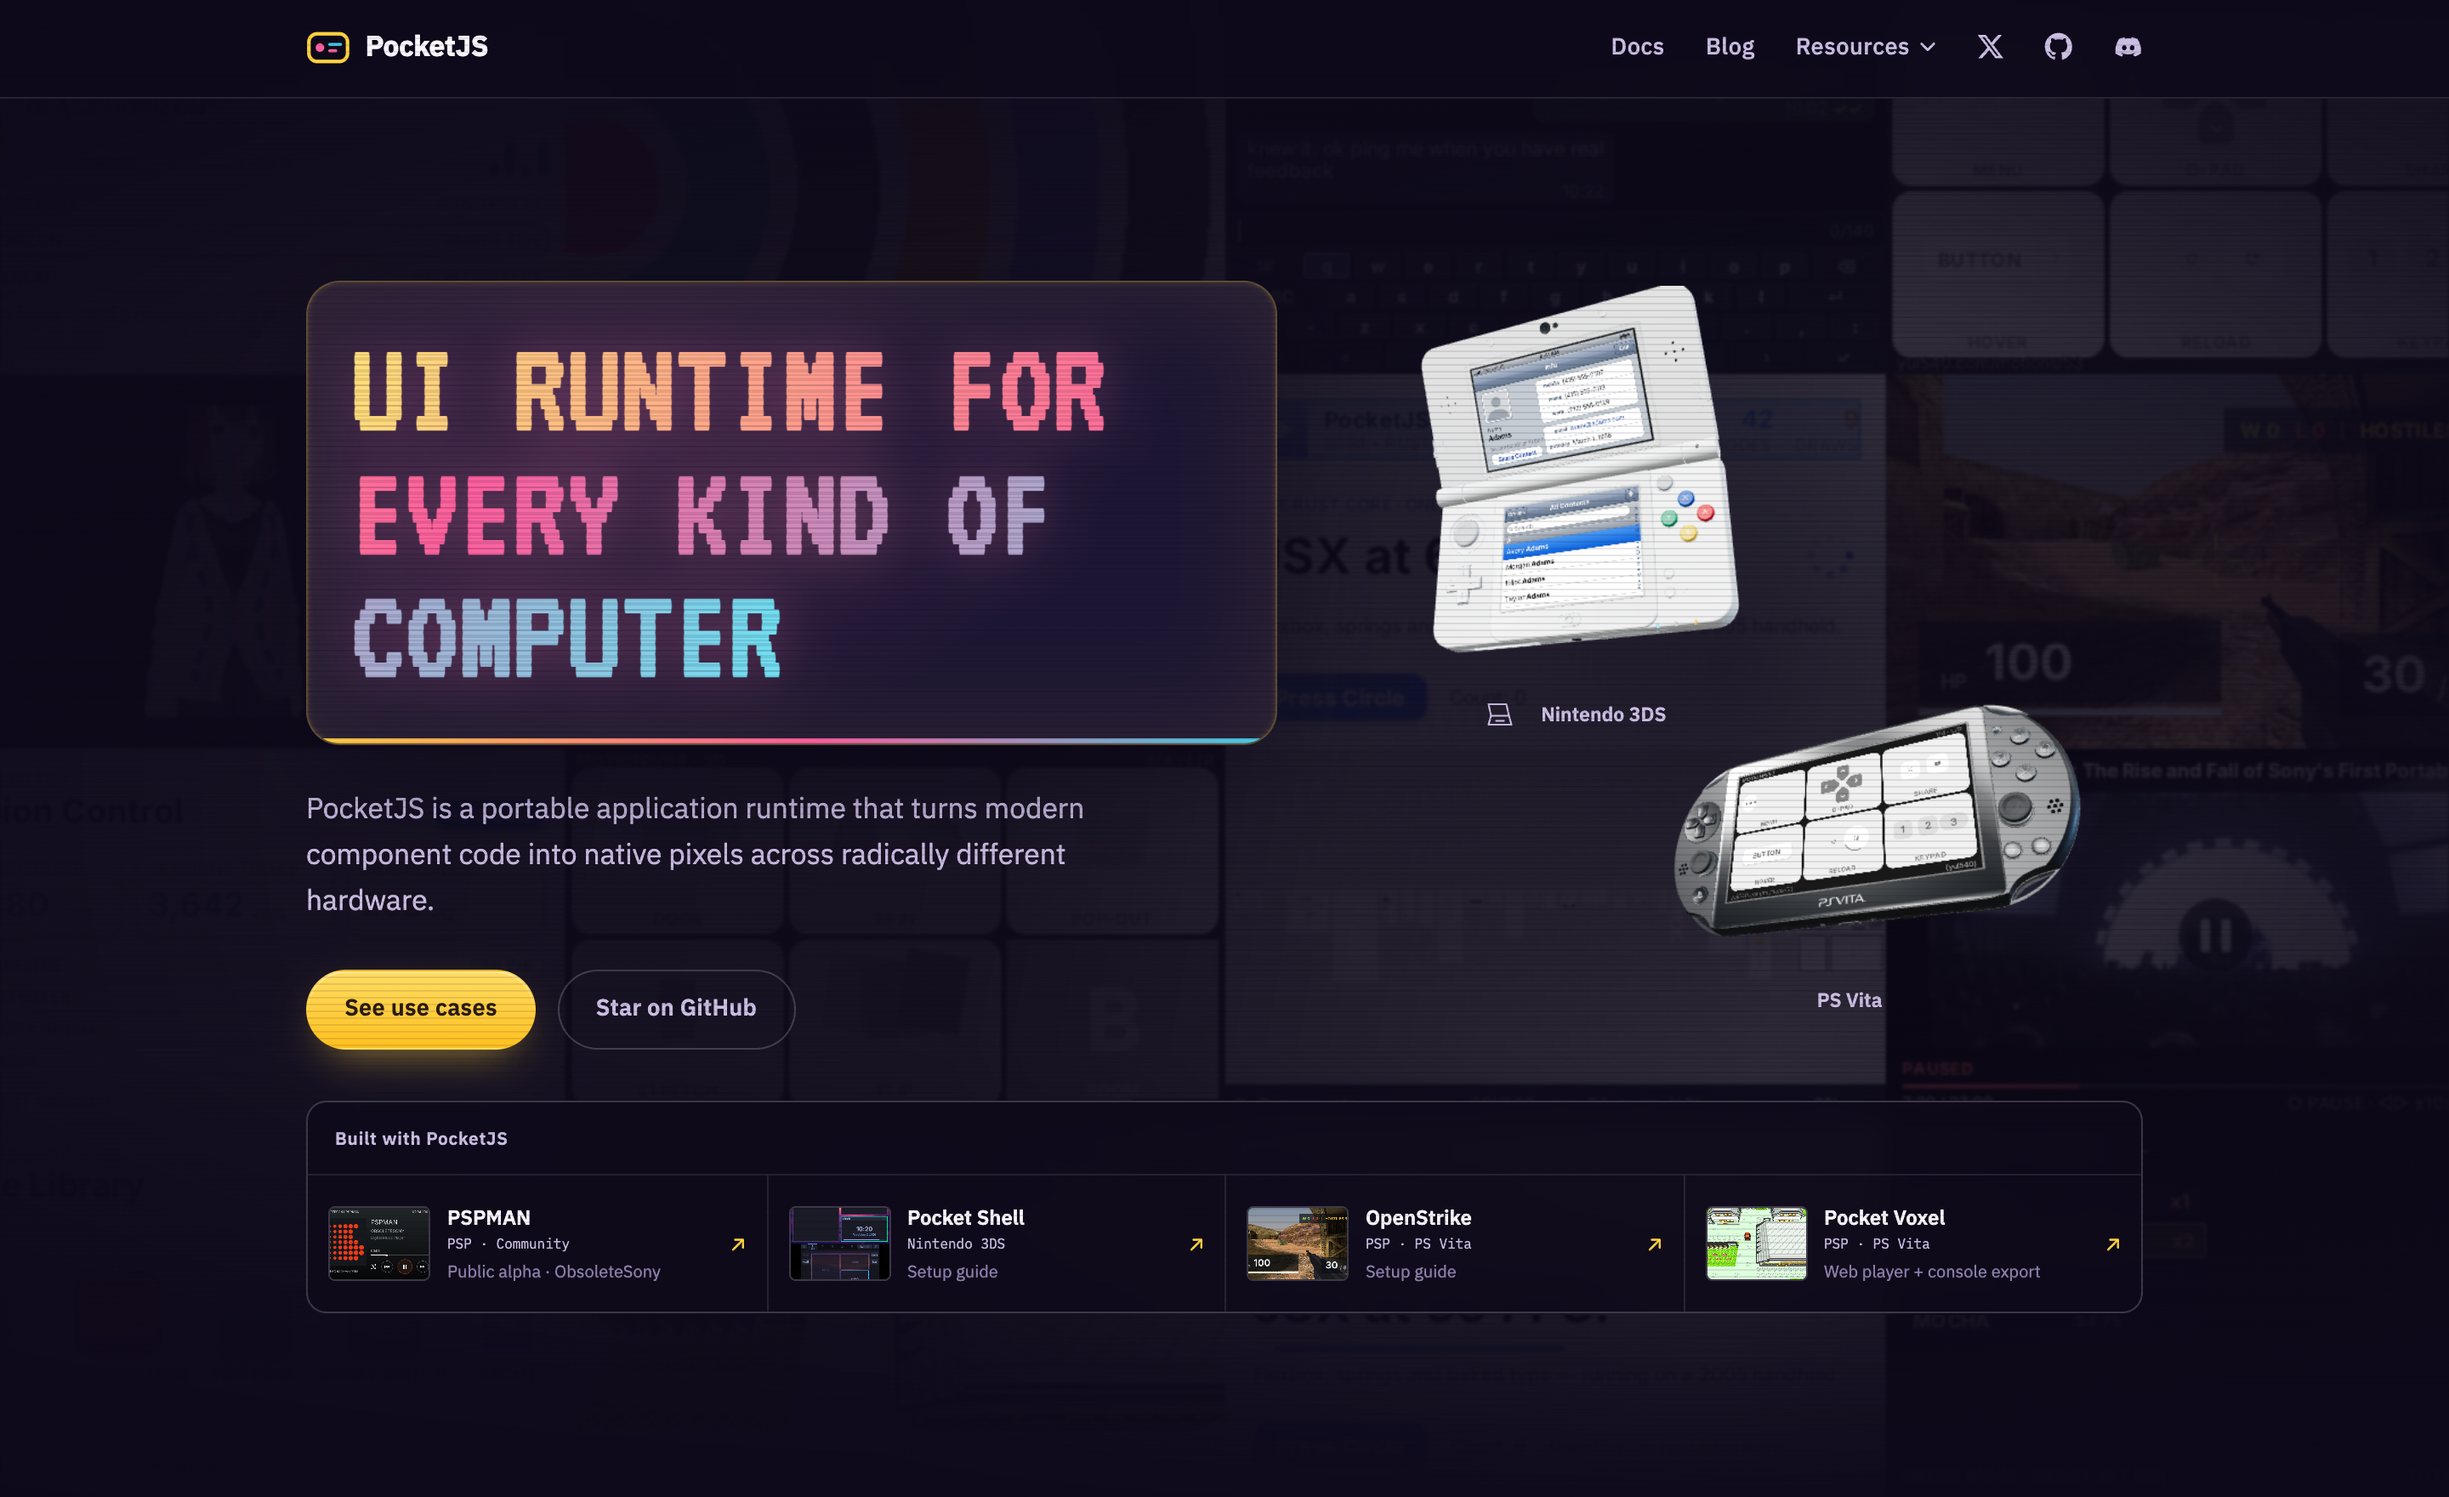
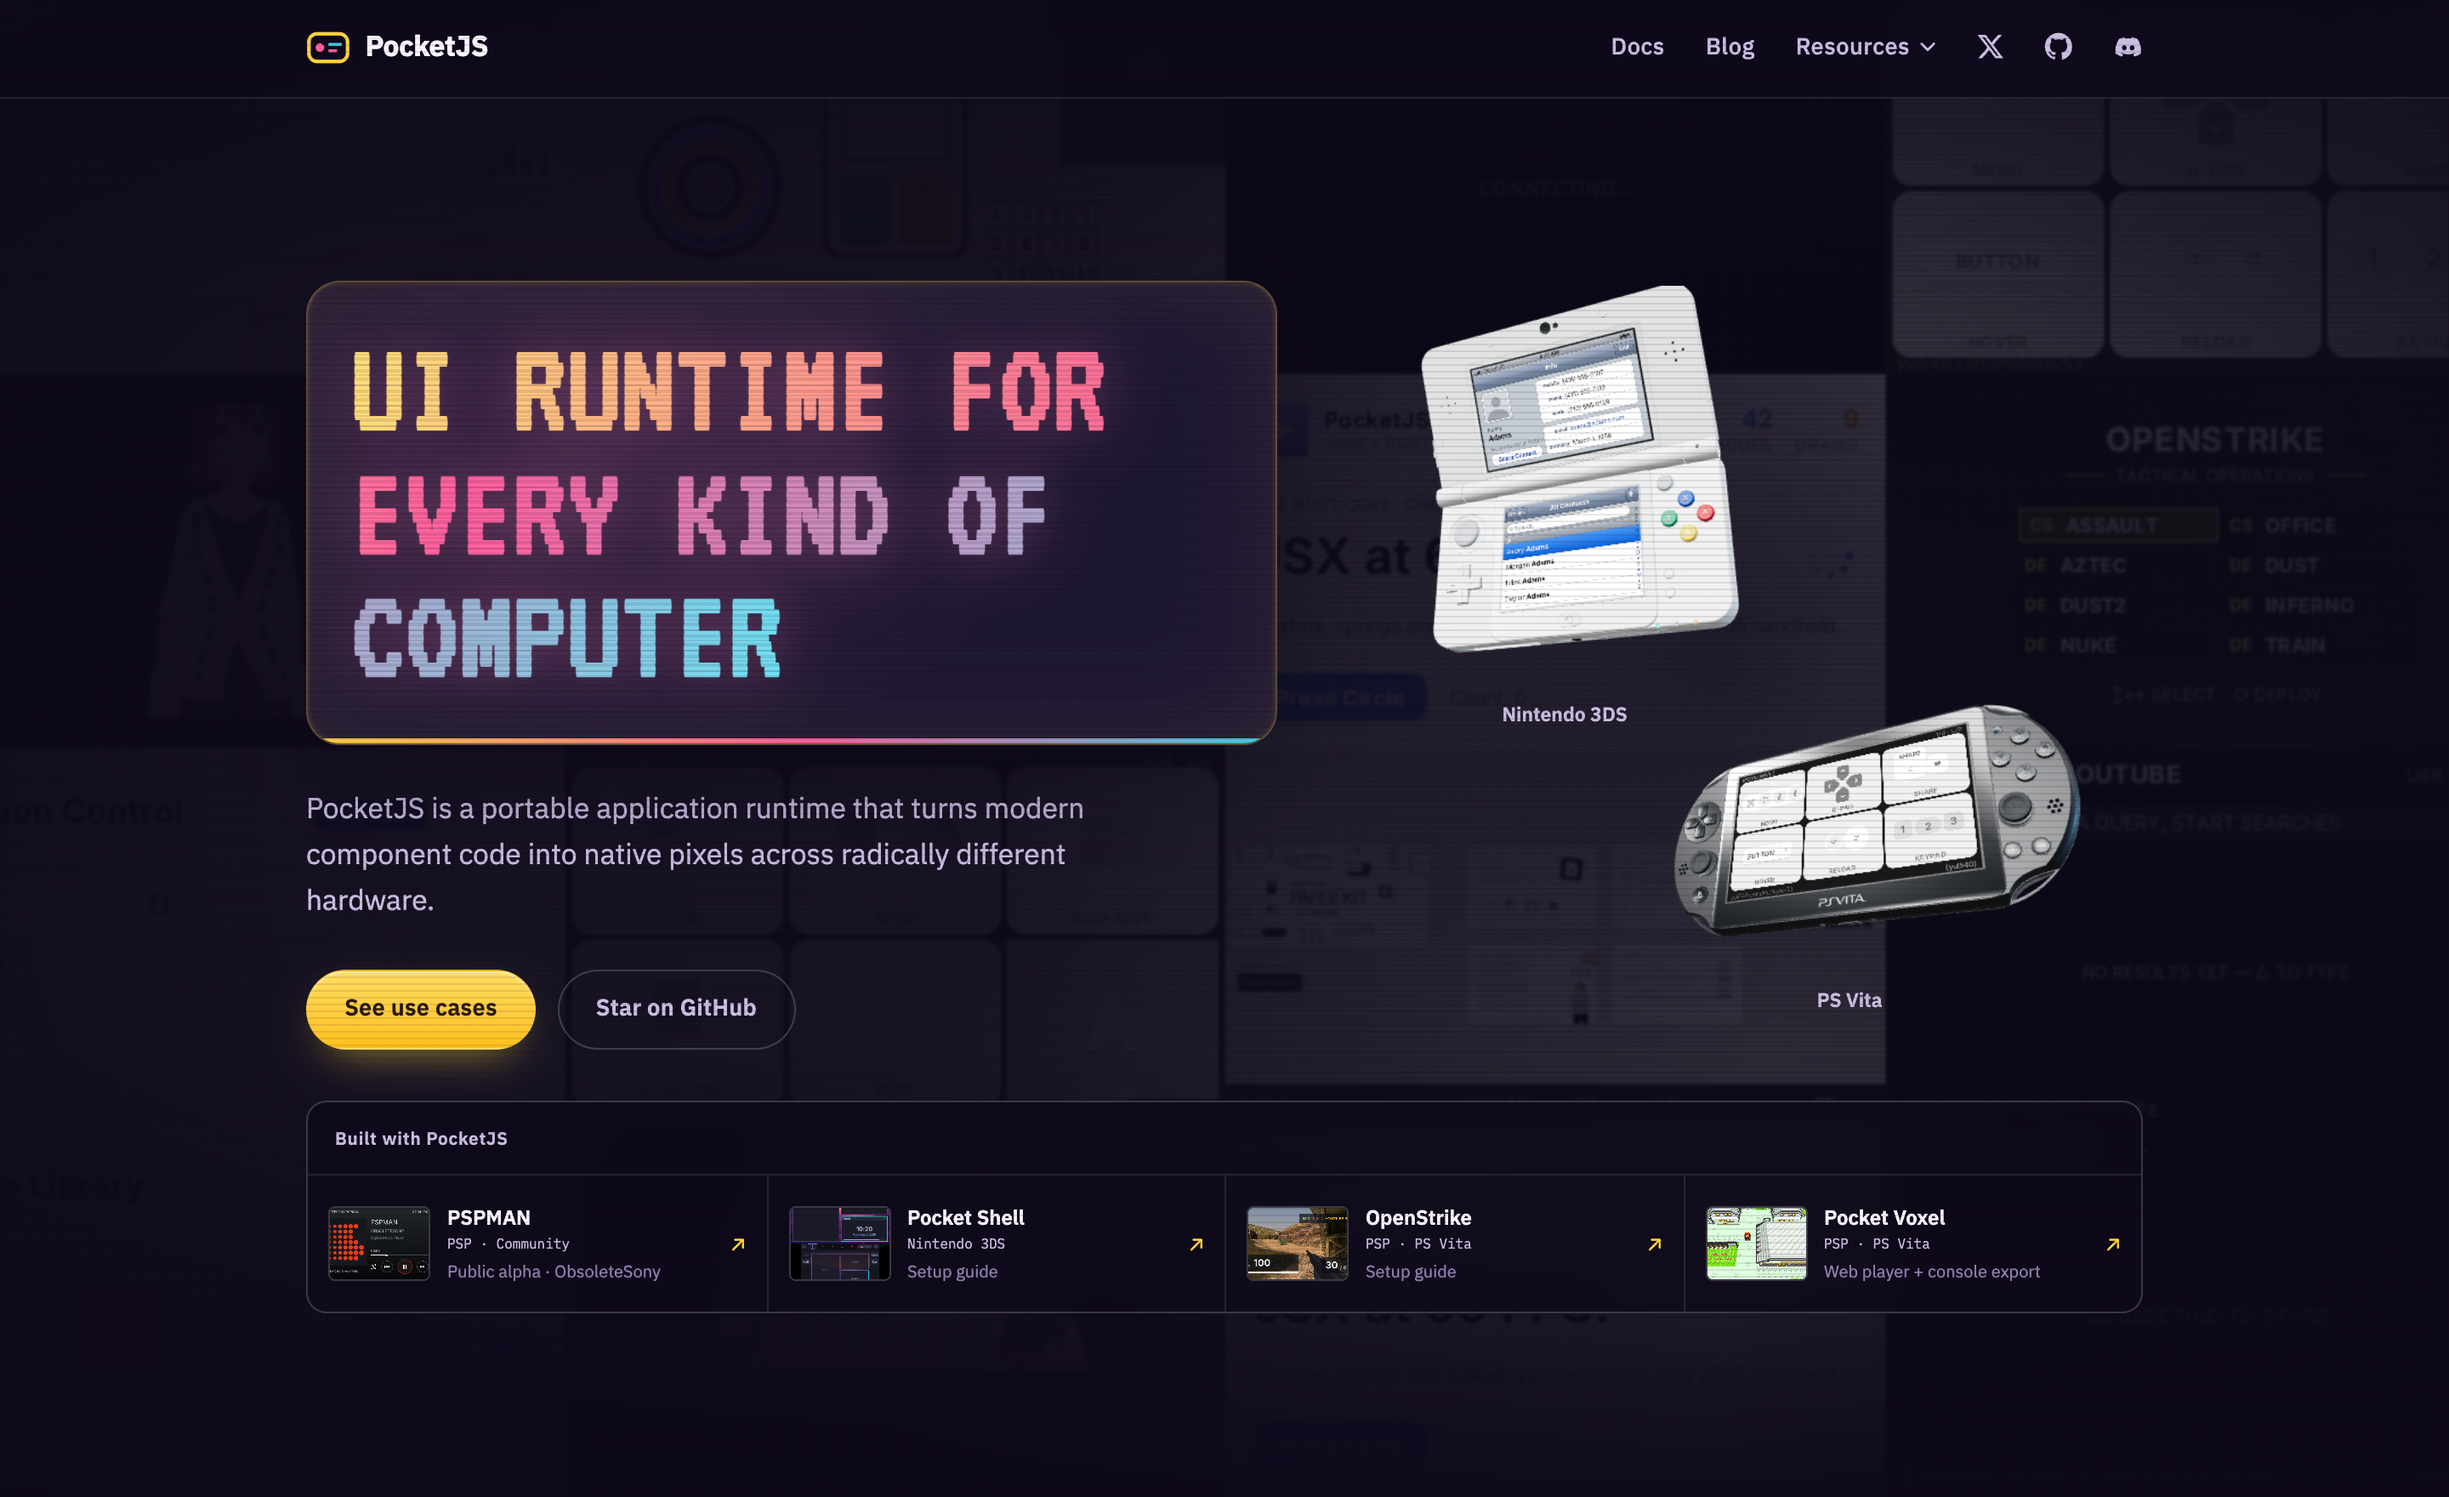
docs(site): refresh handheld previews without lid controls

diff --git a/site/verify-hero-layouts.ts b/site/verify-hero-layouts.ts
@@ -21,8 +21,7 @@ const probe = `(async () => {
     if (root.querySelector('figcaption>span')) throw Error('Remove the demo subtitle below the model');
     const name=['Nintendo 3DS','PS Vita'][index];
     if (root.querySelector('h3').textContent!==name || canvas.getAttribute('aria-label')!==name) throw Error('Use the short device name');
-    if (root.querySelector('figcaption').innerHTML!=='<h3>'+name+'</h3>') throw Error('Only show the device name below the model');
-    if (root.querySelector('details,summary,input,[data-device-view]')) throw Error('Remove the device control menus');
+    if (root.querySelector('figcaption button,figcaption svg,details,summary,input,[data-device-view]')) throw Error('Only show the device name below the model');
   }
   document.querySelector('.hero .pe-entry').click();
   if (!document.querySelector('#try-pspman').open) throw Error('First case must open PSPMAN');
